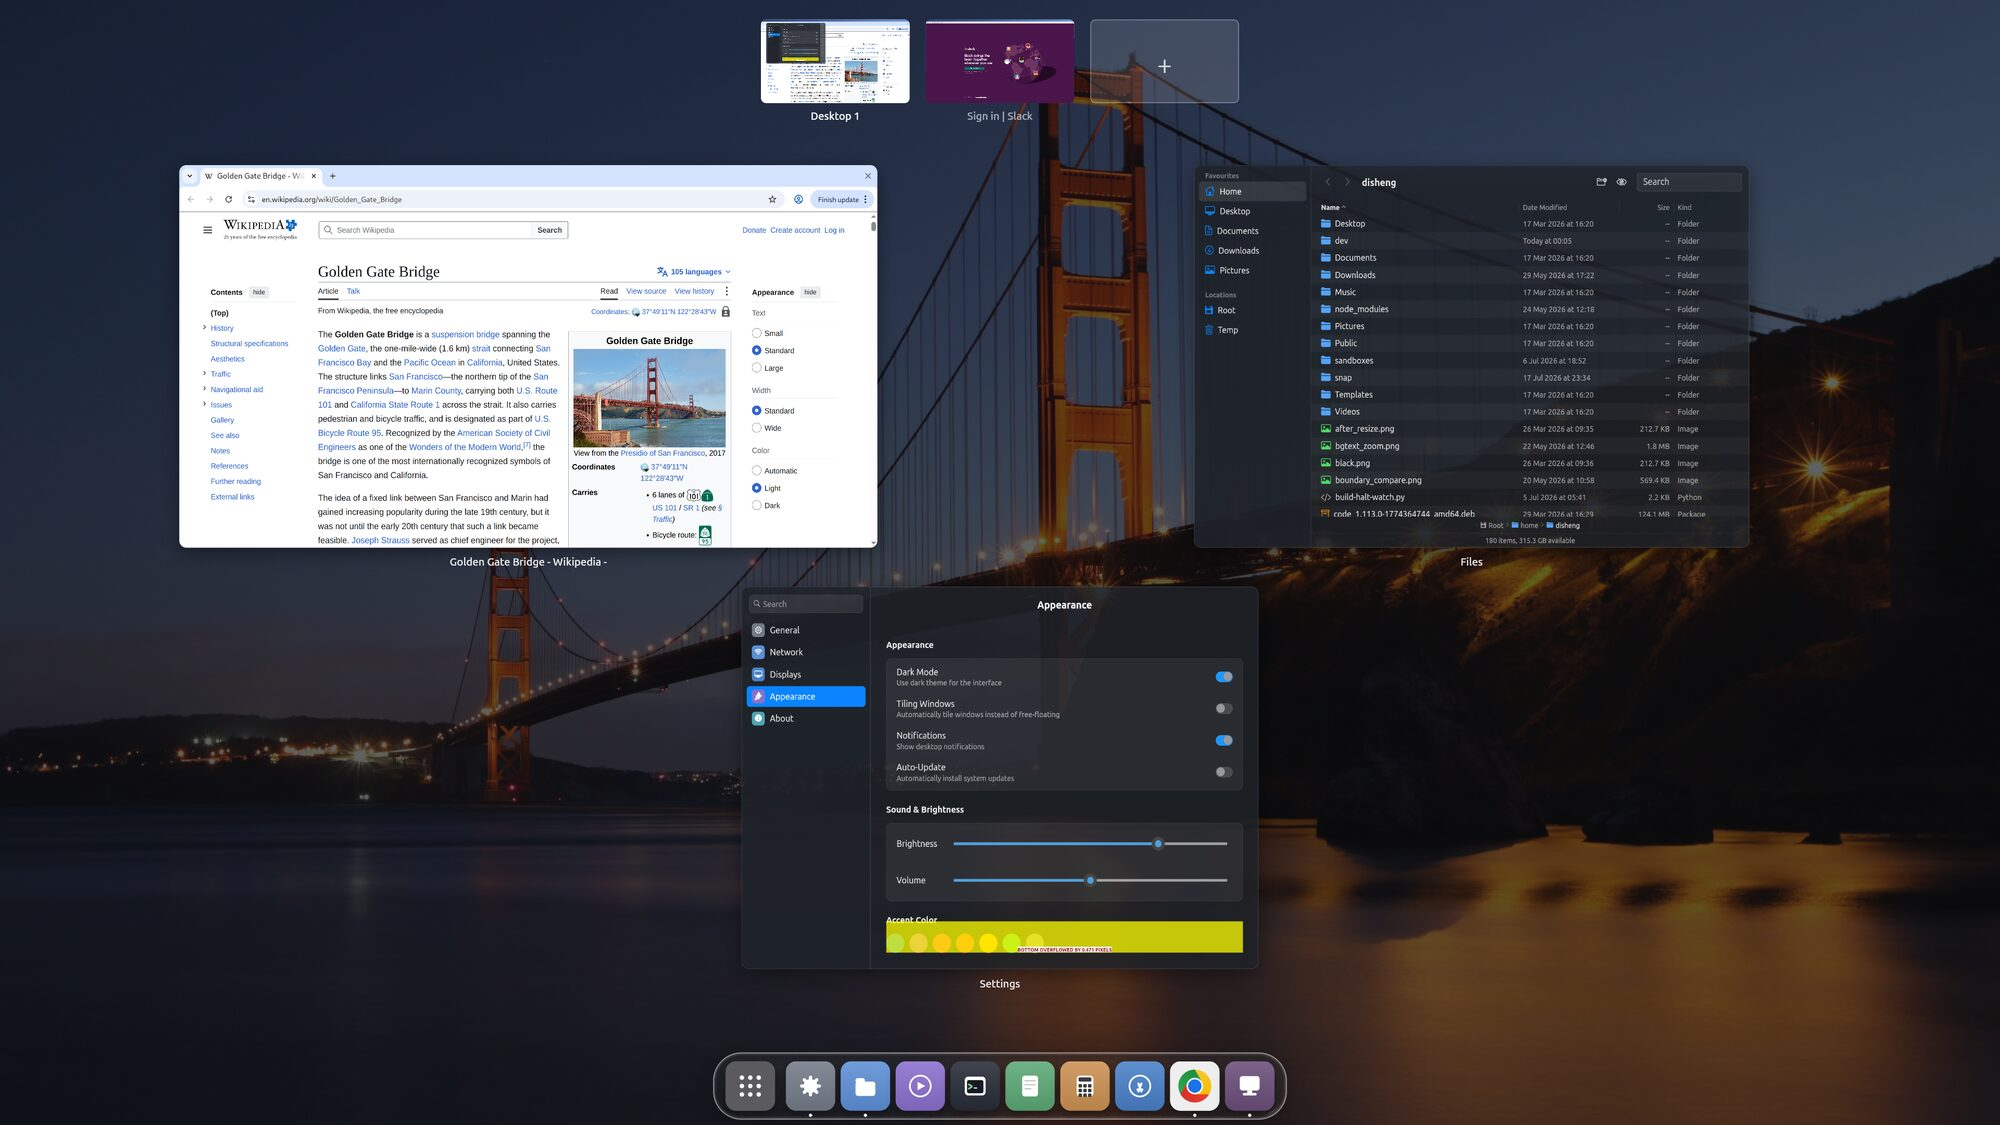
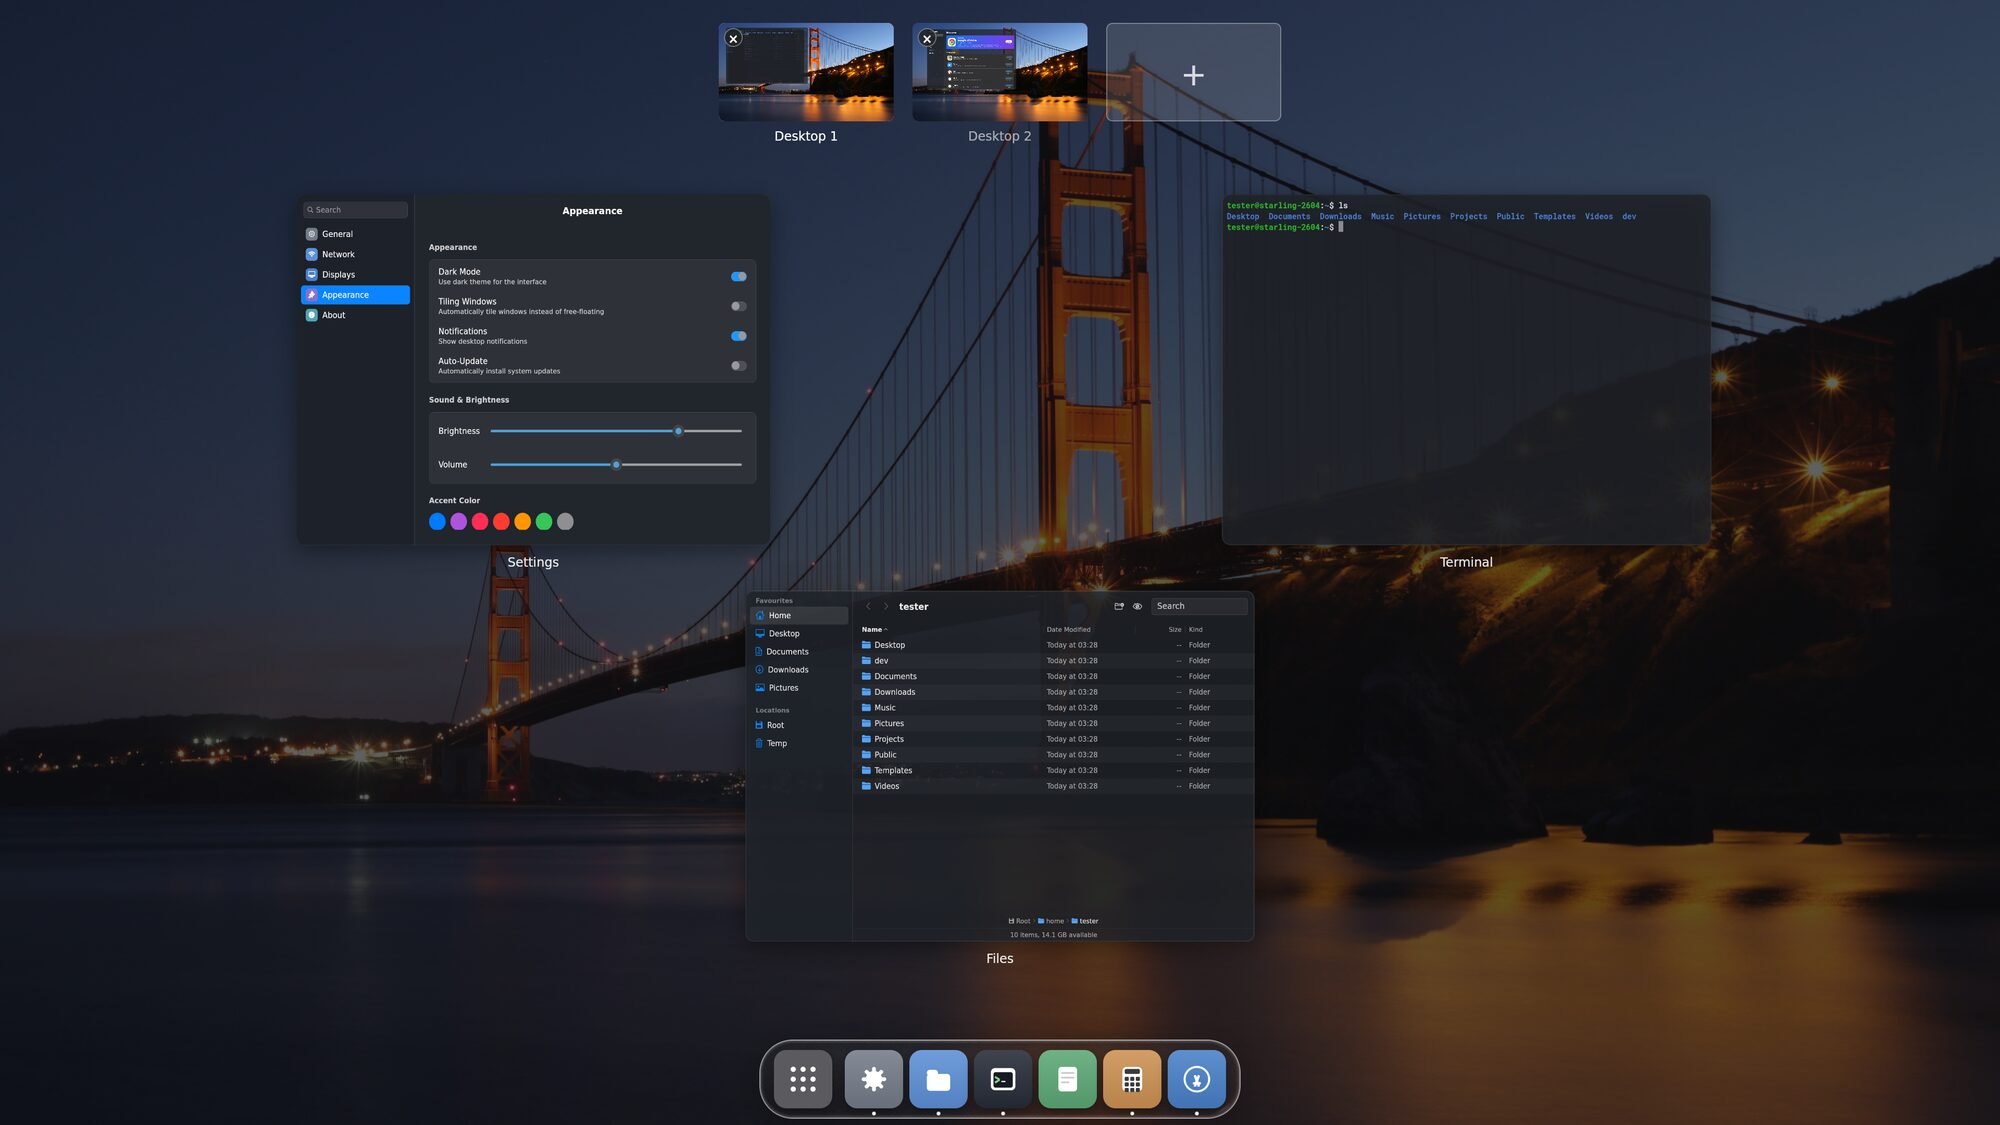
site: publish from starling-desktop/ui @ 88dc31c

diff --git a/index.html b/index.html
@@ -453,8 +453,9 @@
           <h3>Tiling and floating, both first-class</h3>
           <p>
             Floating windows by default. Flip one switch and everything arranges
-            itself master-and-stack, the way a tiling window manager does — your
-            browser holding the master pane, everything else stacked beside it.
+            itself master-and-stack, the way a tiling window manager does —
+            whatever you are working in holds the master pane, everything else
+            stacked beside it.
           </p>
           <p>
             Flip it back and every window returns to exactly where it was floating.
@@ -464,8 +465,8 @@
         </div>
         <figure>
           <img src="img/tiling.jpg" width="2000" height="1125" loading="lazy"
-               alt="The Starling desktop with tiling enabled: Chrome holds the left half showing a Wikipedia article, with Slack, Files and Settings stacked down the right half.">
-          <figcaption>Tiling on — Chrome, Slack, Files and Settings arranged automatically.</figcaption>
+               alt="The Starling desktop with tiling enabled: Settings holds the master pane on the left, showing the Tiling Windows switch turned on, with Files and Calculator stacked down the right half.">
+          <figcaption>Tiling on — the master pane on the left, everything else stacked beside it.</figcaption>
         </figure>
       </div>
 
